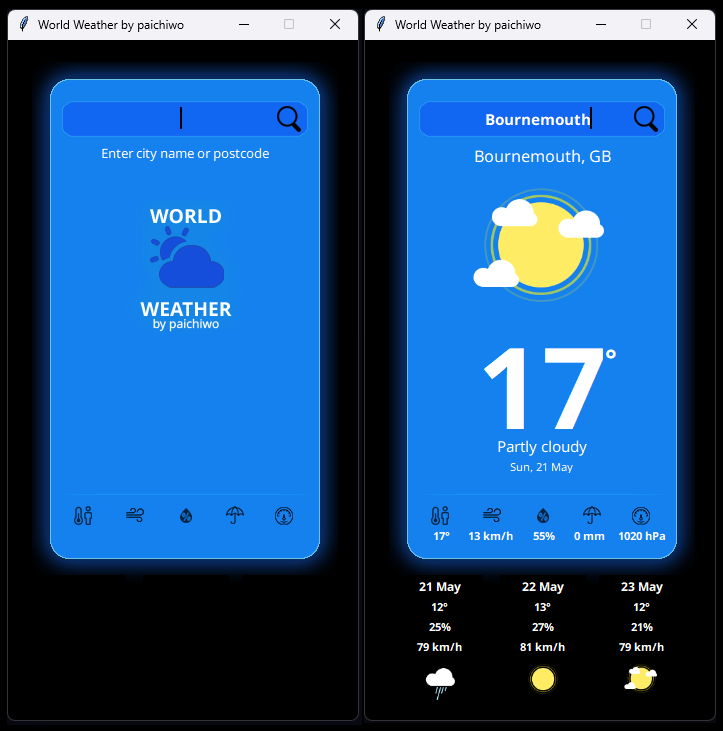
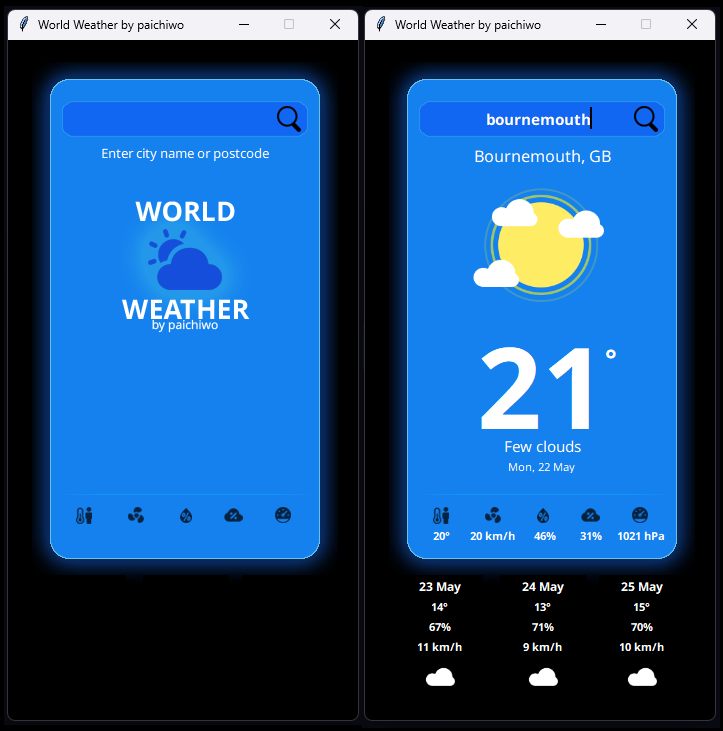
Update README.md with new screenshot.png

diff --git a/README.md b/README.md
@@ -33,7 +33,7 @@ The icons in the bottom row represent the following:
    - "Feels like" temperature
    - Wind speed
    - Humidity
-   - Amount of rainfall
+   - Cloud coverage
    - Pressure
 
 ## **Contributing**
